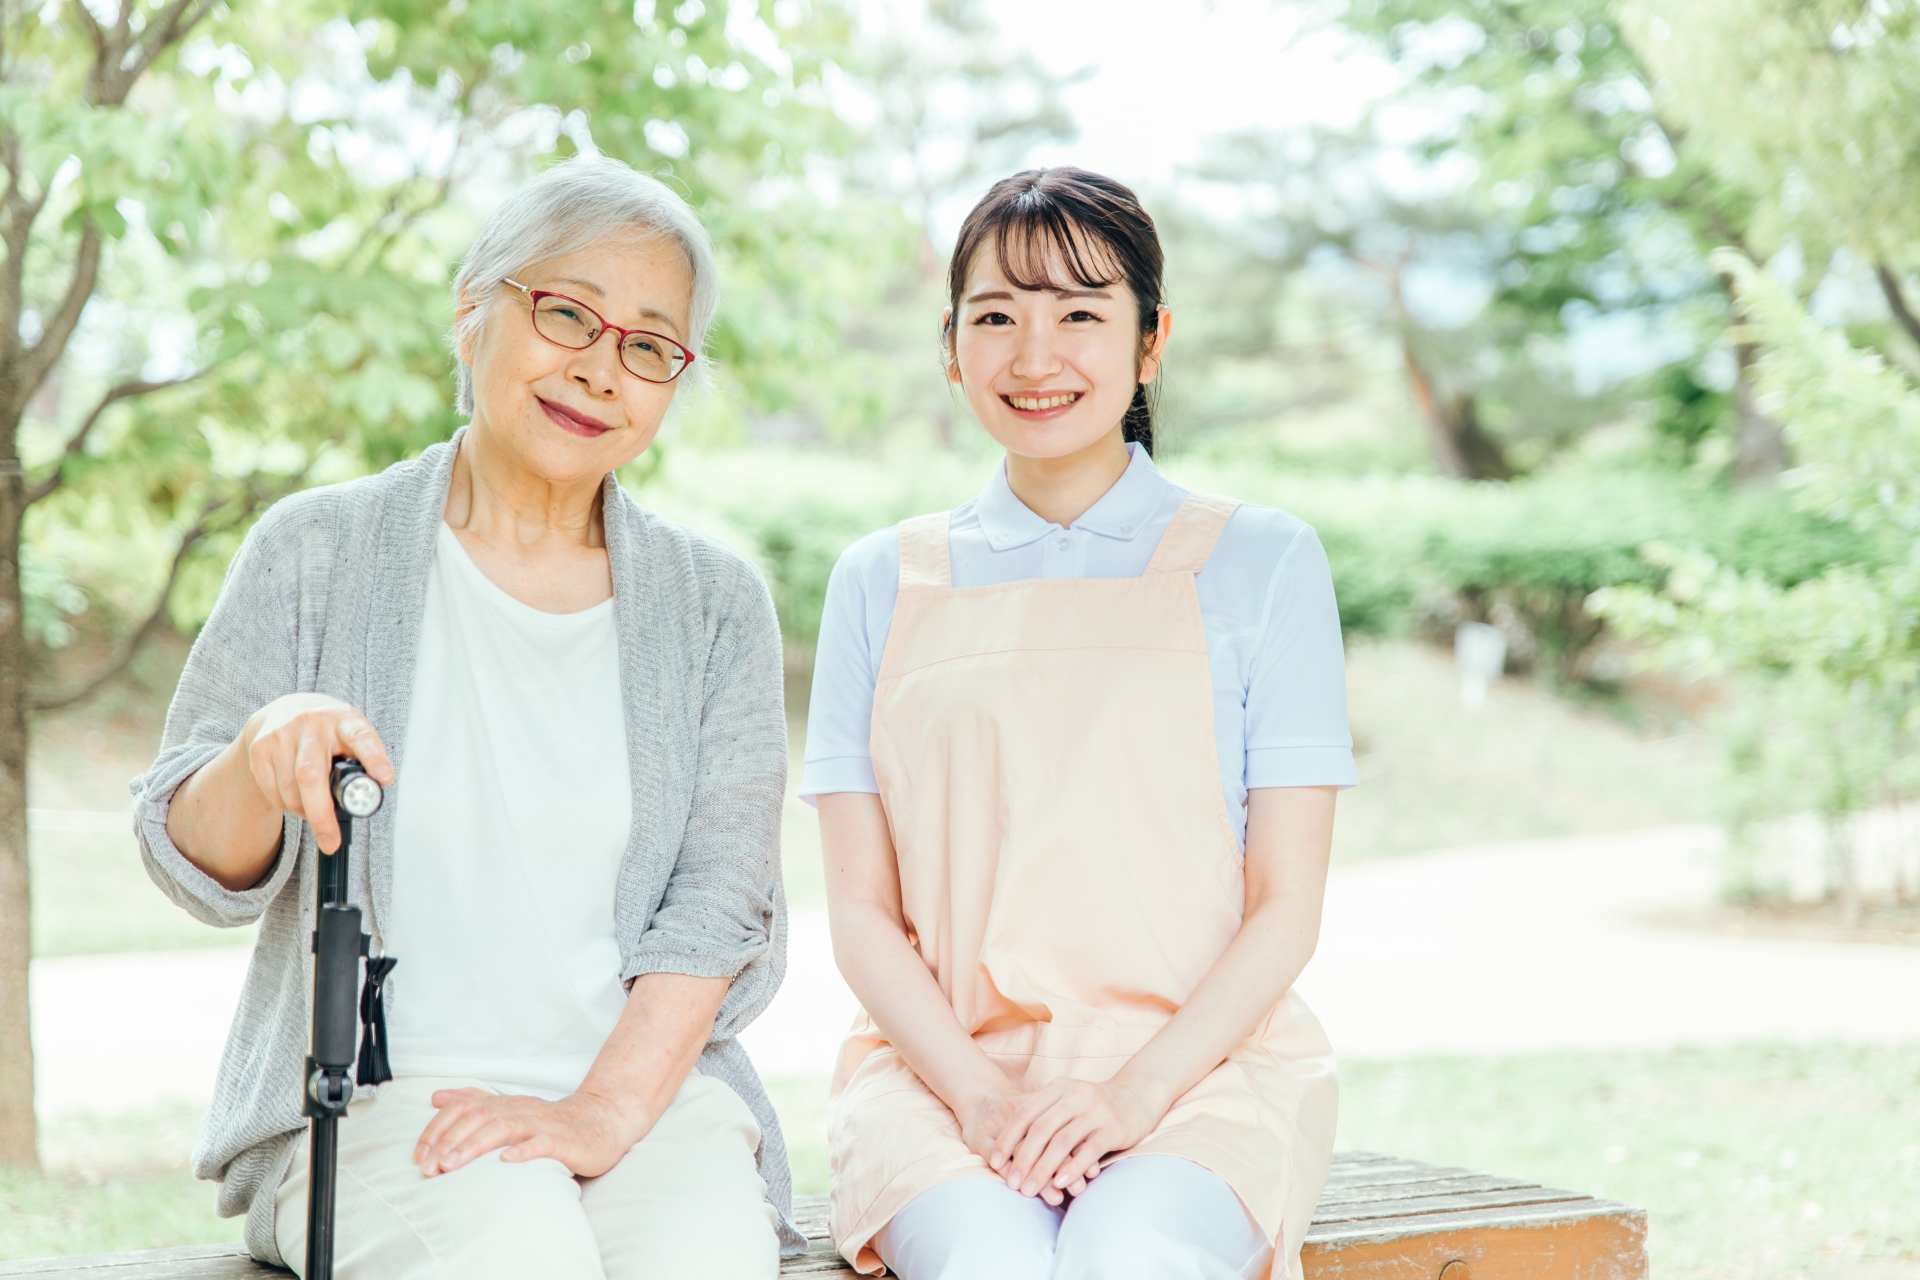
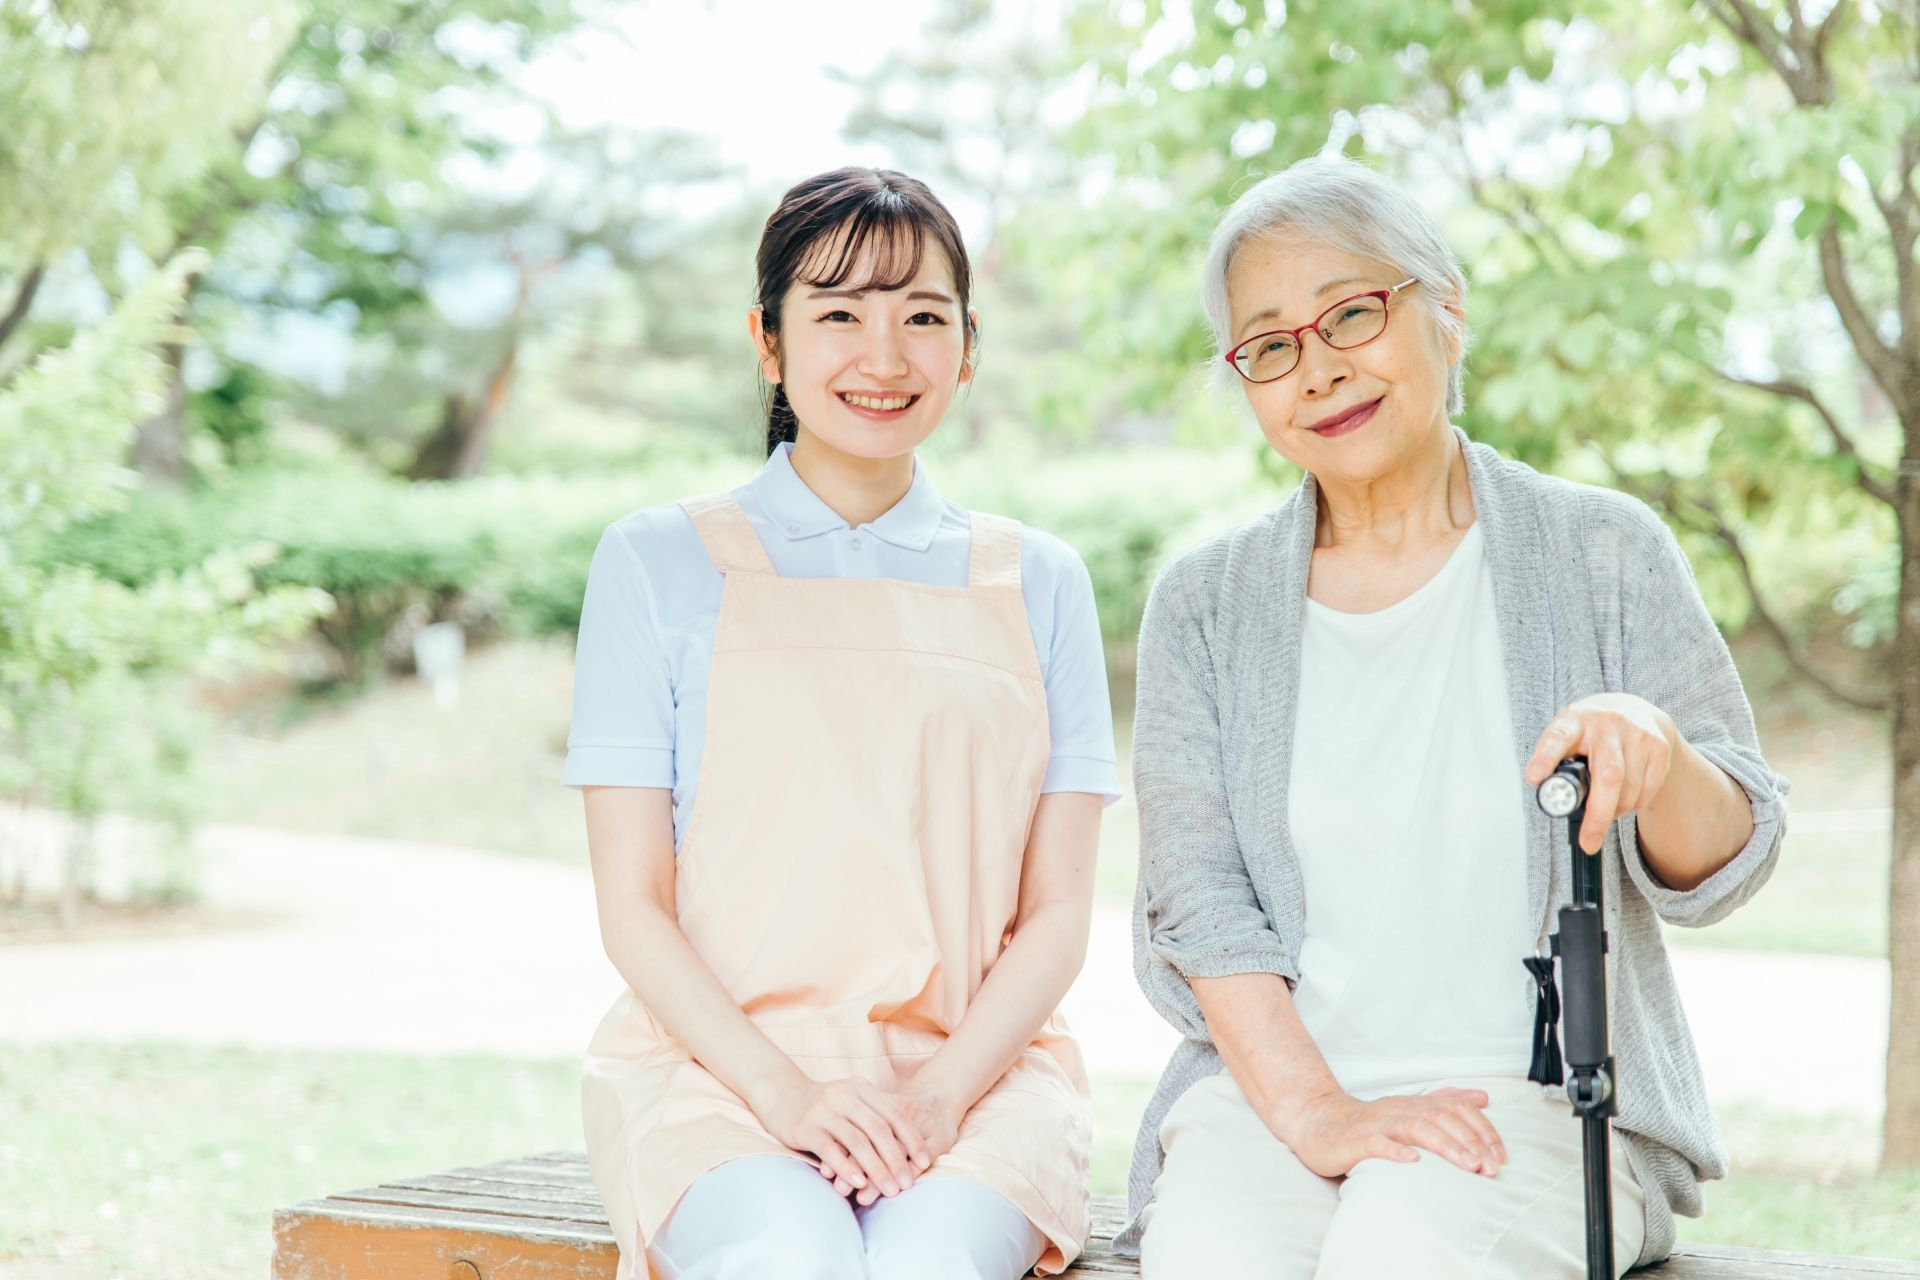
採用情報ページの編集

diff --git a/recruit.html b/recruit.html
@@ -4,13 +4,180 @@
   <meta charset="UTF-8">
   <meta http-equiv="X-UA-Compatible" content="IE=edge">
   <meta name="viewport" content="width=device-width, initial-scale=1.0">
+  <link rel="stylesheet" href="css/reset.css">
+  <link rel="stylesheet" href="css/style.css">
+  <link rel="shortcut icon" href="img/icon_150250_128.png" type="image/x-icon">
   <title>採用情報 | 稲沢市の住宅型有料老人ホーム もんてくらい</title>
+  <meta name="description" content="愛知県稲沢市の住宅型有料老人ホームもんてくらいの採用情報ページ。介護のことならお任せください。">
+  <meta name="keywords" content="愛知,稲沢,介護,老人ホーム">
+  <!-- google fonts -->
+  <link rel="preconnect" href="https://fonts.googleapis.com">
+  <link rel="preconnect" href="https://fonts.gstatic.com" crossorigin>
+  <link href="https://fonts.googleapis.com/css2?family=Hachi+Maru+Pop&family=Kiwi+Maru:wght@300&family=Leckerli+One&display=swap" rel="stylesheet">
+  <!-- google map -->
+  <script>
+  // 地図を初期化して追加します
+  function initMap() {
+    // もんてくらいの位置
+    const monte = { lat: 35.2437985426551, lng: 136.79190963511547 };
+    // もんてくらいを中心とする地図
+    const map = new google.maps.Map(document.getElementById("map"), {
+      zoom: 15,
+      center: monte,
+    });
+    // もんてくらいの位置にあるマーカー
+    const marker = new google.maps.Marker({
+      position: monte,
+      map: map,
+    });
+  }
+  </script>
 </head>
 <body>
-  <header>
-    <h1>採用情報</h1>
+  <header id="header">
+    <div>
+      <img src="img/もんてくらいロゴ(暫定).png" alt="もんてくらい" class="logo">
+      <div class="bord">
+        <img src="img/448364.png" alt="" class="bord">
+        <h1 class="recruit_h1">採用情報</h1>
+      </div>
+    </div>
+    <nav>
+      <ul>
+        <li>お問い合わせ</li>
+        <li>採用情報</li>
+      </ul>
+    </nav>
   </header>
-  <main></main>
-  <footer></footer>
+  <div id="to_top">
+    <a href="#">
+      <img src="img/outline_arrow_upward_white_24dp.png" alt="サイトトップへ移動">
+    </a>
+  </div>
+  <nav class="sp-nav">
+    <ul>
+      <li>
+        <a href="#contact">
+          <img src="img/icon_117062_256.png" alt="">
+          <img src="img/outline_email_white_24dp.png" alt="">
+          <p>お問い合わせ</p>
+        </a>
+      </li>
+      <li>
+        <a href="index.html">
+          <img src="img/icon_120052_256.png" alt="">
+          <p>トップページ</p>
+        </a>
+      </li>
+    </ul>
+  </nav>
+  <main>
+    <img src="img/22678767_a.jpg" alt="アットホームな写真" class="recruit_hero">
+    <section class="strength">
+      <h2>「もんてくらい」で<br>一緒に働こう</h2>
+      <p>住宅型有料老人ホーム「もんてくらい」では、現在一緒に働いていただける社員を募集しています。</p>
+      <div class="container">
+        <img src="img/22665503.png" alt="杖を持つ女性と寄り添う介護士" class="illust">
+        <ul>
+          <li>
+            <dt>雇用形態</dt>
+            <dd>正社員(日勤･夜勤含む常勤)</dd>
+          </li>
+          <li>
+            <dt>仕事内容</dt>
+            <dd>介護付有料老人ホームの看護業務全般</dd>
+            <dd>(吸引、投薬管理、経管栄養、バイタルチェック、生活介助 等)</dd>
+          </li>
+          <li>
+            <dt>応募資格</dt>
+            <dd>正看護師、准看護師</dd>
+          </li>
+          <li>
+            <dt>給与</dt>
+            <dd>緊急時にすぐに対応出来るよう、職員が常駐しています。</dd>
+          </li>
+          <li>
+            <dt>全個室16室8.8畳</dt>
+            <dd>すべての個室に窓があり、開放的に生活いただけます。</dd>
+          </li>
+          <li>
+            <dt>認知症対応可</dt>
+            <dd>認知症の方も安心してご利用いただけます。</dd>
+          </li>
+          <li>
+            <dt>生活保護入居可</dt>
+            <dd>生活保護を受給中の方もご入居できます。</dd>
+          </li>
+          <li>
+            <dt>夫婦入居可</dt>
+            <dd>ご夫婦で一緒に入居いただけます。ご気軽に相談ください。</dd>
+          </li>
+          <li>
+            <dt>全室トイレ洗面有</dt>
+            <dd>全ての個室にトイレと洗面台を用意しています。</dd>
+          </li>
+        </ul>
+      </div>
+    </section>
+    <section class="nursing">
+      <h2>看護サービス</h2>
+      <div class="container">
+        <ul>
+          <li>点滴(水分･電解質補給 等)</li>
+          <li>注射(インシュリン 等)</li>
+          <li>座薬</li>
+          <li>疼痛コントロール</li>
+        </ul>
+        <img src="img/22651923.png" alt="点滴を受ける男性" class="illust">
+      </div>
+    </section>
+    <section class="alliance">
+      <h2>提携医療機関</h2>
+      <div class="container">
+        <img src="img/22462979.png" alt="" class="illust">
+        <dl>
+          <dt>オリーブ内科</dt>
+          <dt><a href="http://olive-clinic.com/">http://olive-clinic.com/</a></dt>
+          <dd>受診/往診/緊急時対応/健康相談/健康診断</dd>
+          <dt>グランツ歯科室</dt>
+          <dt><a href="https://www.d-glanz.com/">https://www.d-glanz.com/</a></dt>
+          <dd>受診/往診/健康診断</dd>
+        </dl>
+      </div>
+    </section>
+    <section class="contact" id="contact">
+      <h2>お問い合せ</h2>
+      <p>入居にかかわらず、介護保険や認定のこと、在宅介護のことなどお気軽にお問合せください。</p>
+      <a href="tel:0587-24-9064">
+        <img src="img/icon_117062_256.png" alt="電話">
+        <dl>
+          <dt>電話相談はこちら</dt>
+          <dd>0587-24-9064</dd>
+        </dl>
+      </a>
+      <a href="mailto:shibawanko0202@gmail.com">
+        <img src="img/outline_email_white_24dp.png" alt="e-mail">
+        <dl>
+          <dt>メール相談はこちら</dt>
+          <dd>shibawanko0202@gmail.com(仮)</dd>
+        </dl>
+      </a>
+    </section>
+    <section class="access">
+      <h2>アクセス</h2>
+      <!--google mapの表示 -->
+      <div id="map"></div>
+      <address>〒492-8215 愛知県稲沢市大塚北 2-99</address>
+      <dt>公共交通機関でお越しの方</dt>
+      <dd>名鉄「国府宮」駅より稲沢コミュニティバス「城見ヶ丘」徒歩5分</dd>
+    </section>
+  </main>
+  <footer><small>&copy; 株式会社 三愛ウェルフェア</small></footer>
+  <div class="sp-footer"></div>
+  <!-- Async script executes immediately and must be after any DOM elements used in callback. -->
+  <script async
+  src="https://maps.googleapis.com/maps/api/js?key=AIzaSyD5QOV4QoUQLz6DyJGnRmpyMqokD08ghUc&callback=initMap">
+ </script>
+ <script src="js/main.js"></script>
 </body>
 </html>

diff --git a/css/style.css b/css/style.css
@@ -101,22 +101,27 @@ header{
   position: relative;
   width: 110px;
   object-fit: contain;
-  filter: drop-shadow(2px 2px 4px rgba(0,0,0,0.3));
+  filter: drop-shadow(2px 2px 2px rgba(0,0,0,0.3));
 }
 div.bord{
   margin-left: 16px;
 }
 h1{
   position: absolute;
-  top: 30px;
-  left: 6px;
+  top: 31px;
+  left: 7px;
   margin: 0 8px;
   border-radius: 4px;
   color: #fff;
   text-align: center;
   font-family: 'Hachi Maru Pop', cursive;
 }
-#logo{
+.recruit_h1{
+  top: 37px;
+  left: 7px;
+  font-size: 20px;
+}
+.logo{
   width: 210px;
   margin: 12px 8px 0 8px;
   /* filter: drop-shadow(0 0 4px black); */
@@ -171,11 +176,17 @@ header nav{
 
 /* main */
 
-#hero{
+.hero{
   width: 100%;
   height: 220px;
   object-fit: cover;
   object-position: 100% 20%;
+}
+.recruit_hero{
+  width: 100%;
+  height: 220px;
+  object-fit: cover;
+  object-position: 0% 0%;
 }
 .strength ul li{
   border-left: solid 8px var(--monte-subcolor);
@@ -303,7 +314,7 @@ header nav{
 .alliance dd + dt{
   margin-top: 24px;
 }
-#contact a{
+.contact a{
   display: flex;
   justify-content: center;
   align-items: center;
@@ -318,10 +329,11 @@ header nav{
   color: #fff;
   transition: all .3s;
 }
-#contact a:hover{
+.contact a:hover{
   background-color: var(--monte-pointcolor);
+  color: #fff;
 }
-#contact a img{
+.contact a img{
   width: 40px;
   object-fit: contain;
   margin: 4px;

diff --git a/index.html b/index.html
@@ -36,9 +36,9 @@
 <body>
   <header id="header">
     <div>
-      <img src="img/もんてくらいロゴ(暫定).png" alt="もんてくらい" id="logo">
+      <img src="img/もんてくらいロゴ(暫定).png" alt="もんてくらい" class="logo">
       <div class="bord">
-        <img src="img/098277.png" alt="" class="bord">
+        <img src="img/448364.png" alt="" class="bord">
         <h1>住宅型有料<br>老人ホーム</h1>
       </div>
     </div>
@@ -72,7 +72,7 @@
     </ul>
   </nav>
   <main>
-    <img src="img/22678759_m.jpg" alt="アットホームな写真" id="hero">
+    <img src="img/22678759_m.jpg" alt="アットホームな写真" class="hero">
     <section class="strength">
       <h2>「もんてくらい」は<br>こんなところ</h2>
       <p>「もんてくらい」とは「もどってくる」という意味の伊予弁です。</p>
@@ -356,7 +356,7 @@
         </dl>
       </div>
     </section>
-    <section id="contact">
+    <section class="contact" id="contact">
       <h2>お問い合せ</h2>
       <p>入居にかかわらず、介護保険や認定のこと、在宅介護のことなどお気軽にお問合せください。</p>
       <a href="tel:0587-24-9064">
